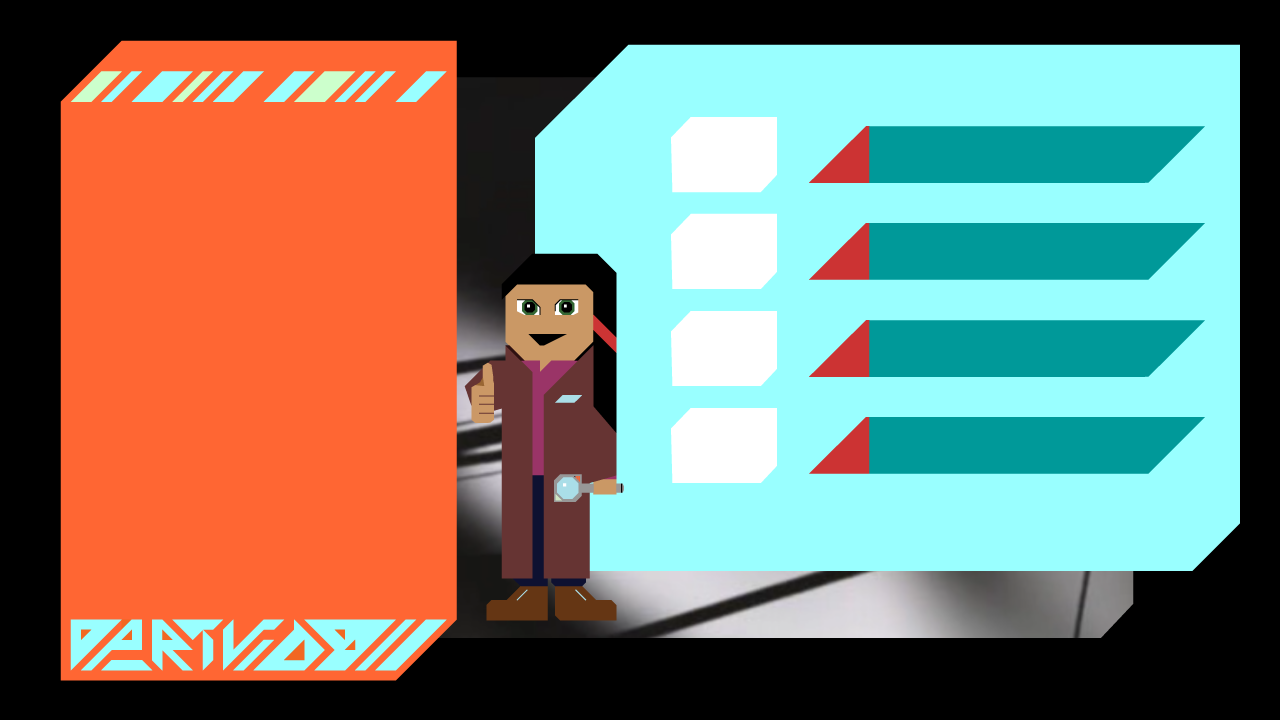
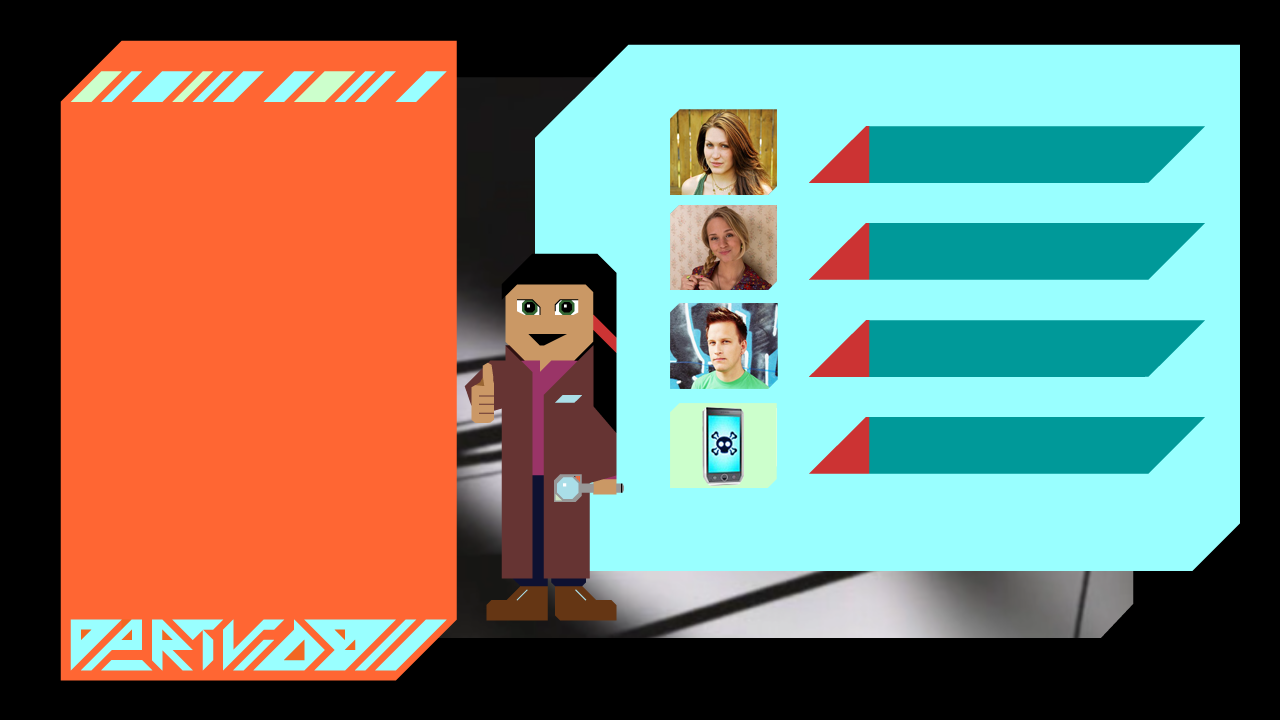
Summary with picts and arrow to design culprit

Changed region(s): [[0.5, 0.1528, 0.625, 0.7028]]

diff --git a/spank/site/spank/templates/booth/summary.html b/spank/site/spank/templates/booth/summary.html
@@ -85,6 +85,19 @@ function bumperPress()
     .resultbarend {
         float: left;
     }
+    #culprit {
+        position: absolute;
+        left: 645px;
+    {% if player.coupable == 'Chiara' %}
+        top: 116px;
+    {% elif player.coupable == 'Simone' %}
+        top: 213px;
+    {% elif player.coupable == 'Richard' %}
+        top: 310px;
+    {% elif player.coupable == 'Autre' %}
+        top: 410px;
+    {% endif %}
+    }
 </style>
 
 <div id="background">
@@ -123,6 +136,9 @@ function bumperPress()
     </div>
     <div id="smartphone">
         <div id="smartphonered">&nbsp;</div><div class="resultbarend"><img src="{% static 'booth/img/resultbar_end.png' %}"></div>
+    </div>
+    <div id="culprit">
+        <img src="{% static 'booth/img/culprit-arrow.png' %}"
     </div>
 </div>
 
